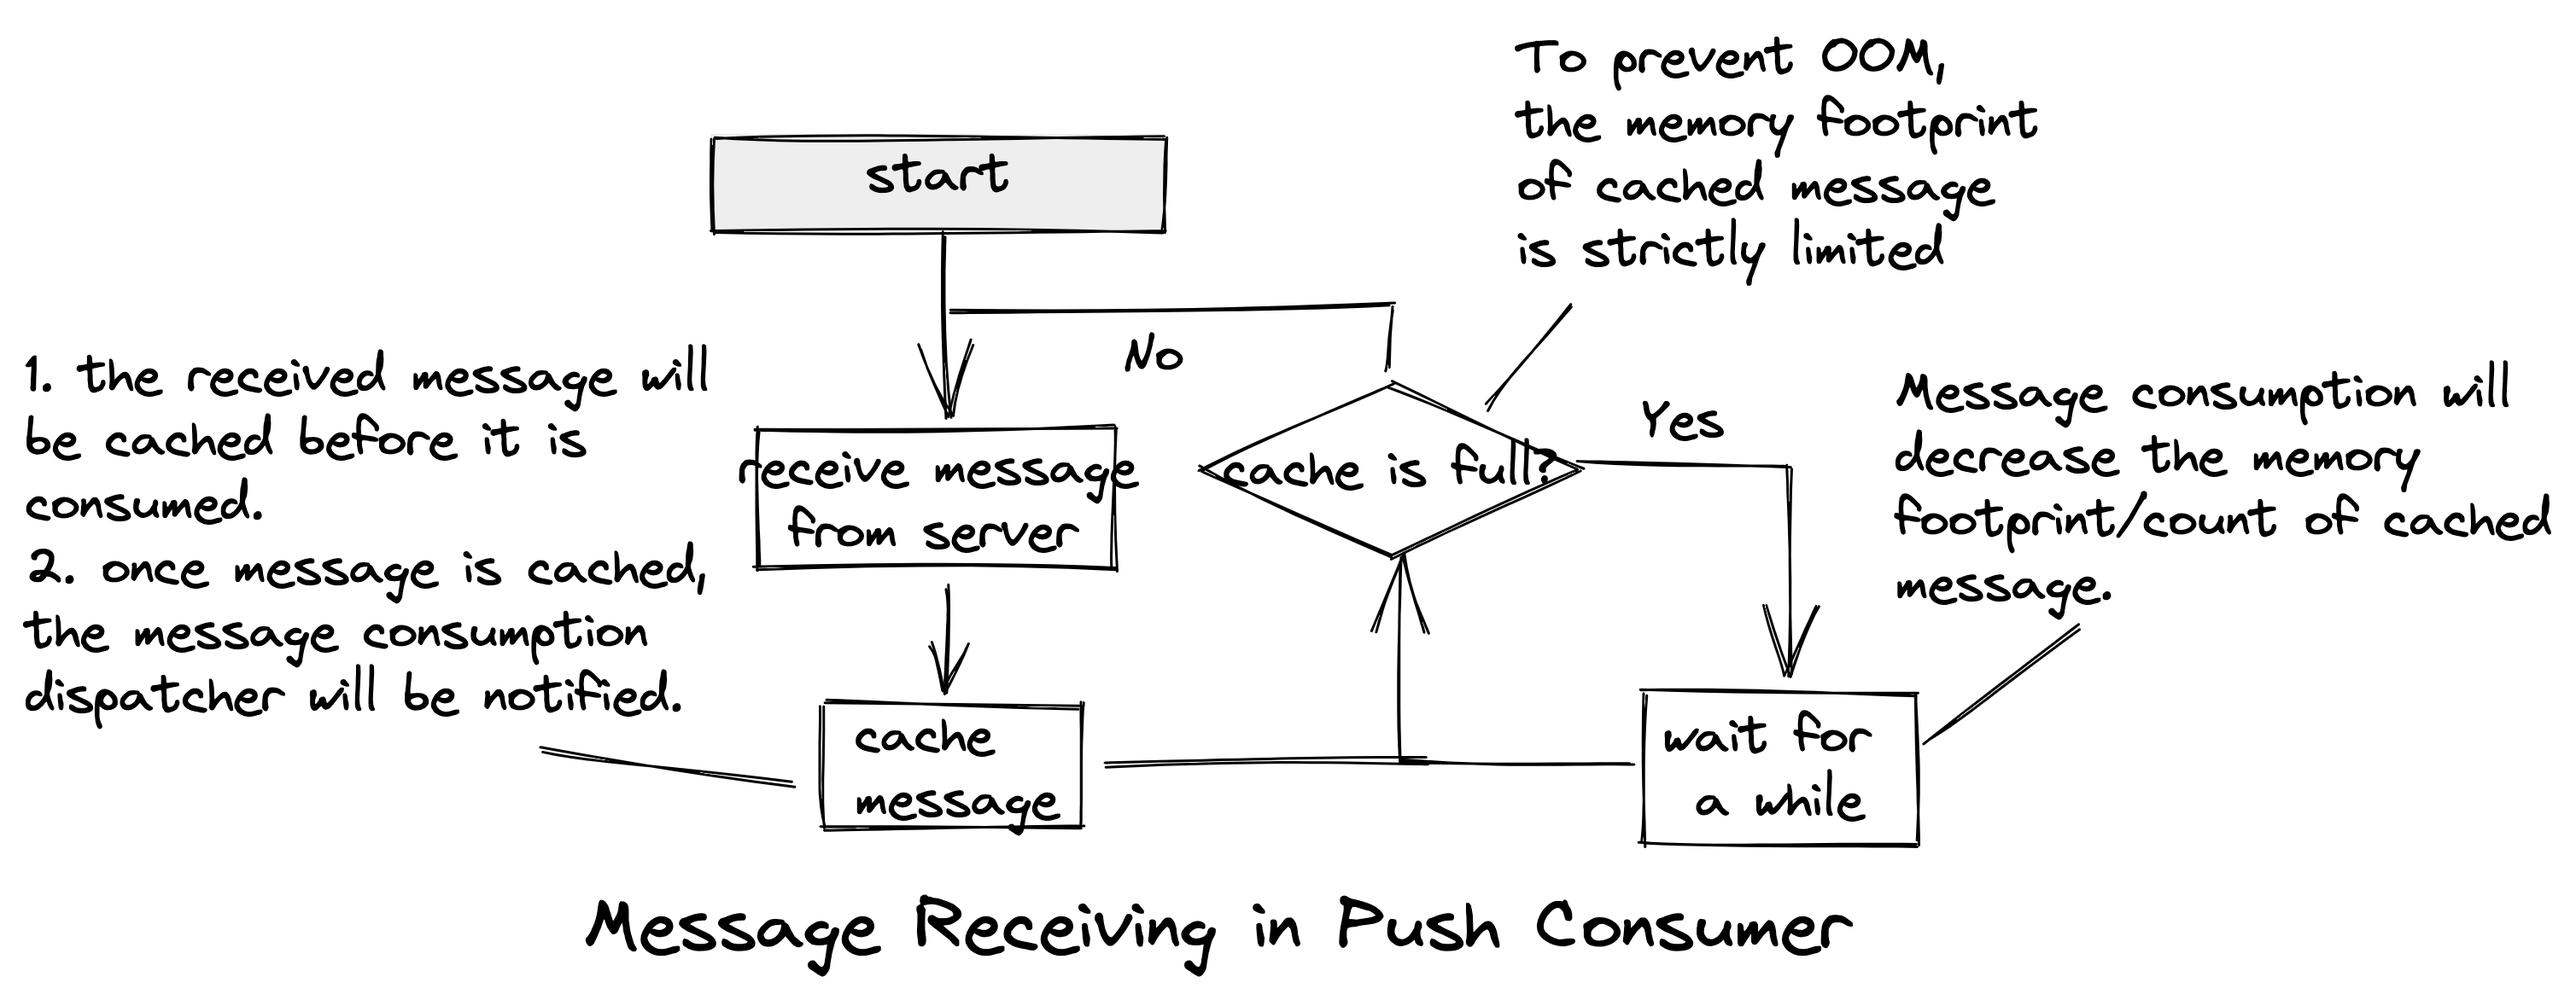
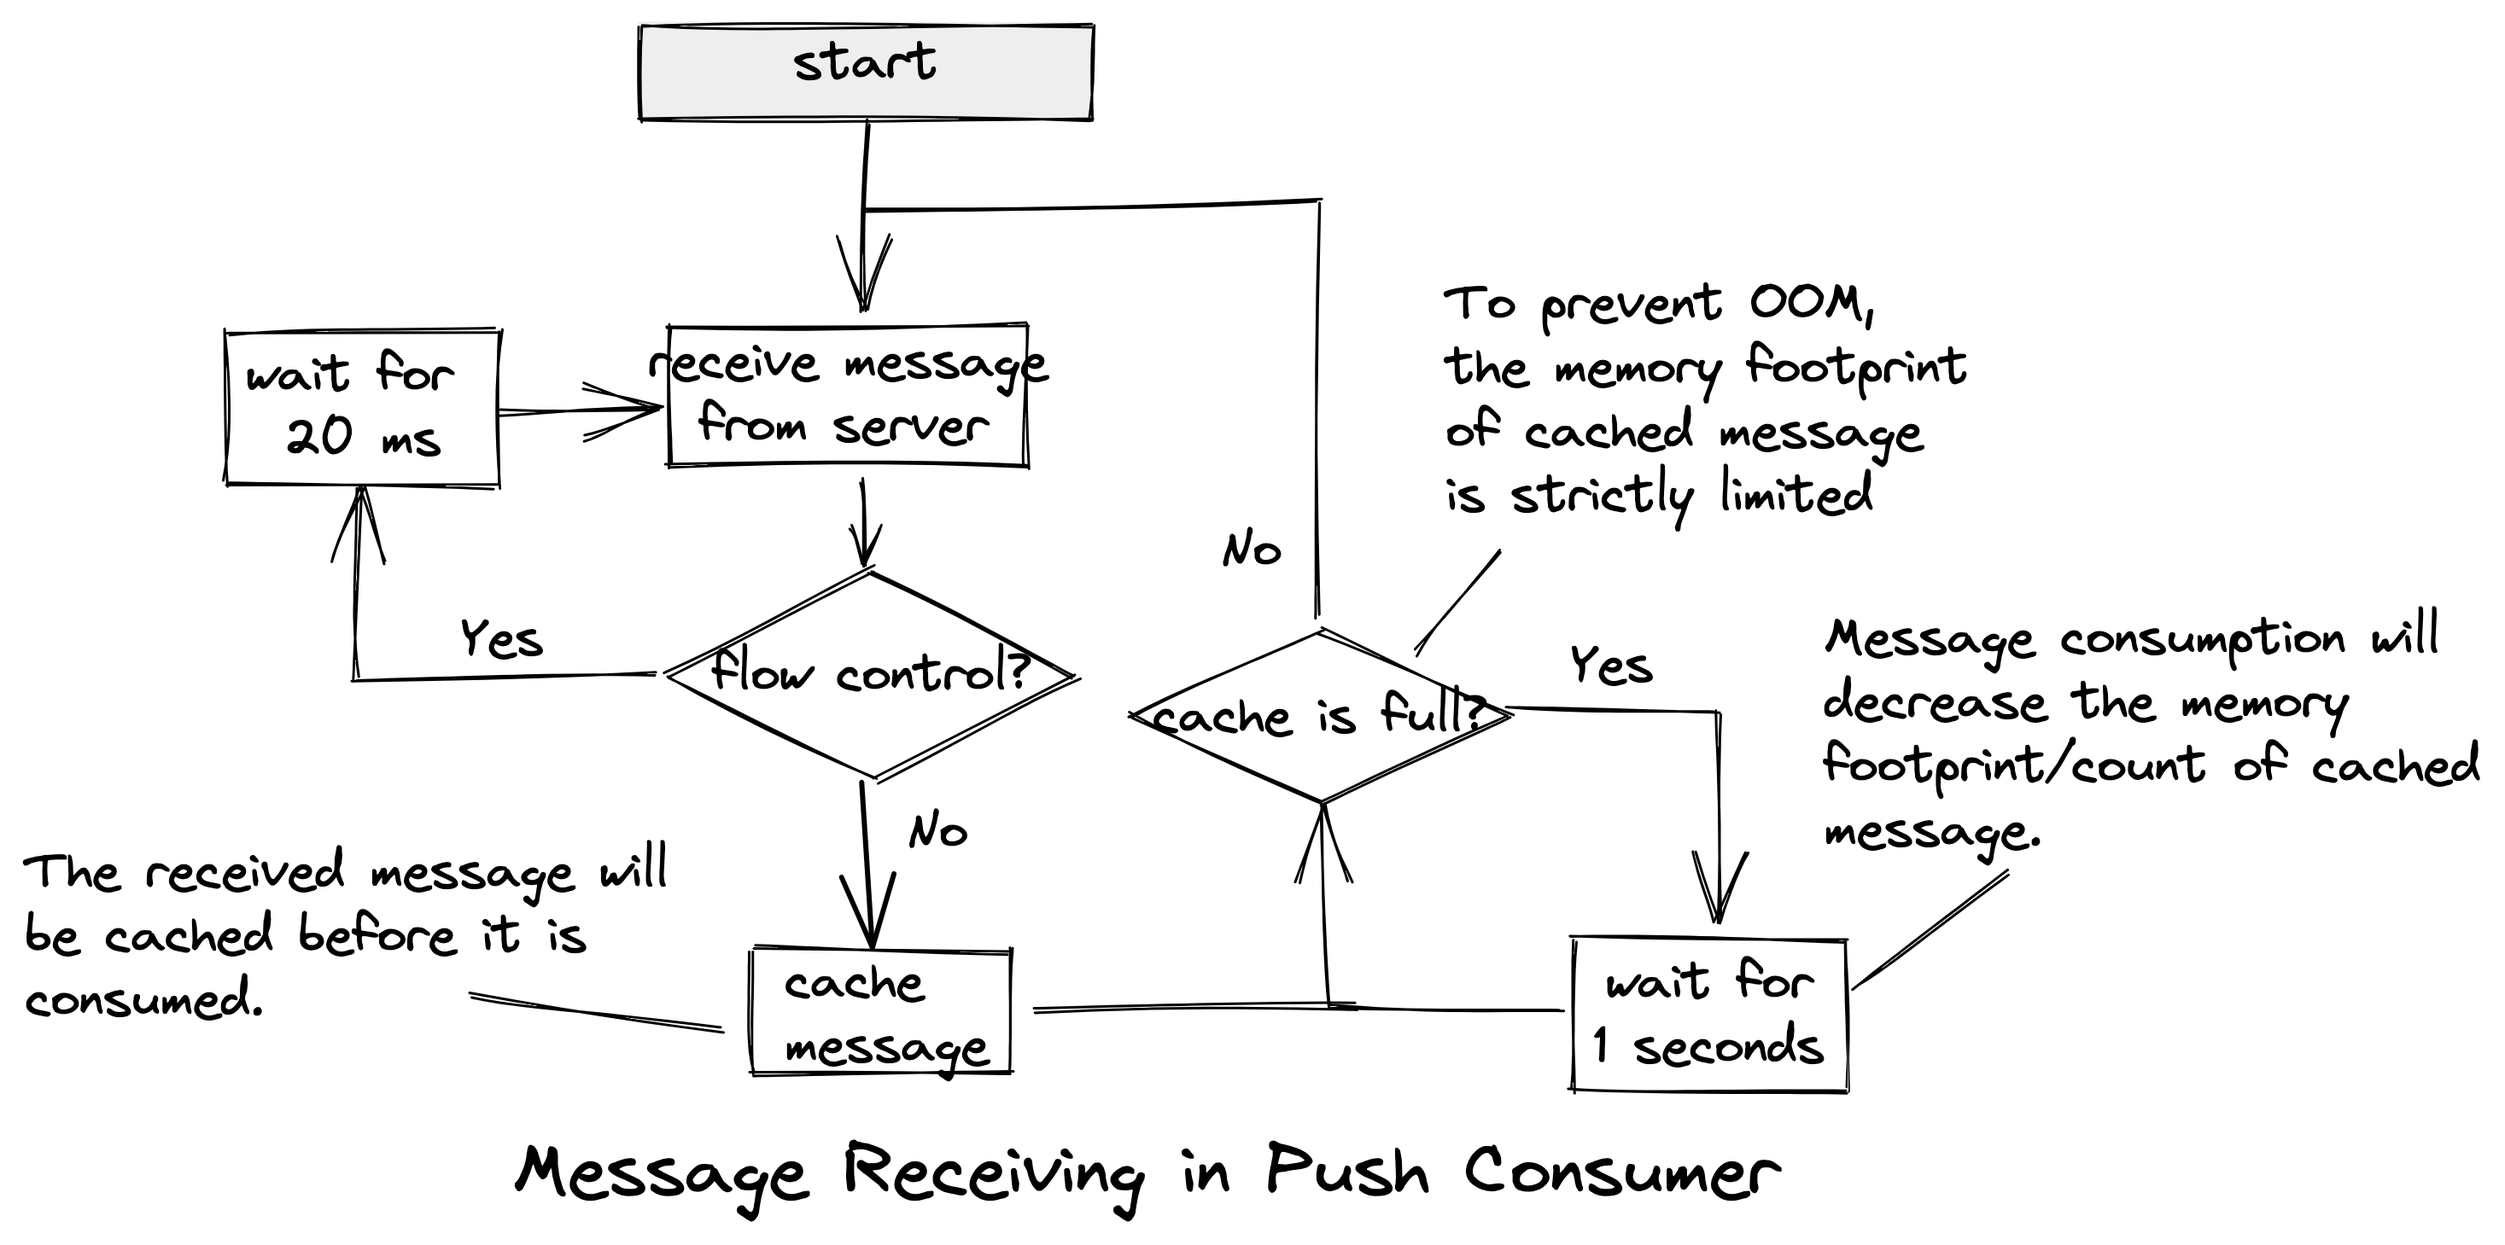
WIP: add docs about flow control (#237)

diff --git a/docs/workflow.md b/docs/workflow.md
@@ -11,7 +11,9 @@ Different from previous clients, the new version adds some preparations during t
 
 Failure of any preparation will result in the failure of client startup.
 
-![Client Startup Process](./artwork/client_startup_process.png)
+<div align="center">
+<img src="./artwork/client_startup_process.png" width="80%">
+</div>
 
 In details, the **server-client telemetry** provides a channel to upload the local settings and to overwrite the client settings.
 
@@ -35,7 +37,7 @@ The workflow to publish a single message of NORMAL type. The message publishing 
 <img src="./artwork/message_publishing_in_producer.png" width="70%">
 </div>
 
-The publishing process is as follows:
+The publishing procedure is as follows:
 
 1. Check if topic route is cached before or not.
 2. If topic route is not cached, then try to fetch it from server, otherwise go to step 4.
@@ -65,6 +67,13 @@ For TRANSACTIONAL messages, the publishing will not be retried if failure is enc
 <div align="center">
 <img src="./artwork/message_receiving_in_push_consumer.png" width="70%">
 </div>
+
+The receiving procedure is as follows:
+
+1. Fetch the latest queue assignment from server.
+2. If flow control occurs during message receiving, consumer will retry after 20 milliseconds, otherwise go to step3.
+3. Cache message and trigger the consumption(Once the lifecycle of message is over, it will removed from cache immmediately).
+4. Check the cache is full, consumer will try to receive message immediately, otherwise retry after 1 seconds.
 
 ### Message Consumption in Push Consumer(Non-FIFO)
 
